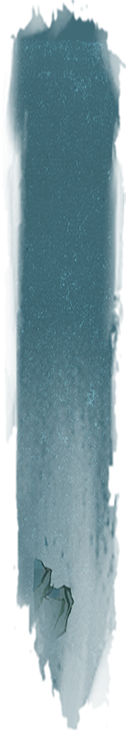
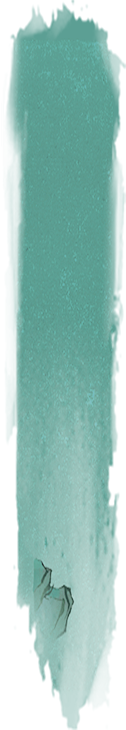
perf(announce): 播报期间 main._process 早退 + 底座底座降到 z20 不挡小面板 + 支持拖动调参（v1.0.8）

diff --git a/更新日志.md b/更新日志.md
@@ -4,6 +4,12 @@
 
 ## v1.0.8（2026-11-03）
 
+- 播报动画卡顿优化：播报期间牌桌是静态的，`main._process` 直接早退（只留租约 / 结算确认），
+  省掉每帧十几处面板 tick、六处 sync 和状态轮询，把帧时间全让给播报的擦开动画。
+- 「底座底座」层级从 21 降到 **20**（蒙版之上、四个小面板之下）——不再挡住左右两个分数面板。
+- 调参窗口补上「底座底座」：调试模式（`autoplay.cfg` 里 `announce=1`）下可以**鼠标拖动**它，
+  `F9` 打印、`F12` 存 `user://announce_tune.cfg`；拖动会写进 `plate_offset`。
+
 - 结算播报：番种条之前先露一块「**底座底座**」大盘子——
   蒙版+横幅淡入后停 0.2s，再休息 **0.3s**，然后**横向从右往左**扫开（**0.5s**），
   扫完**不休息**直接露第一条番种；后面每条仍按 0.3s/间隔 1s。
